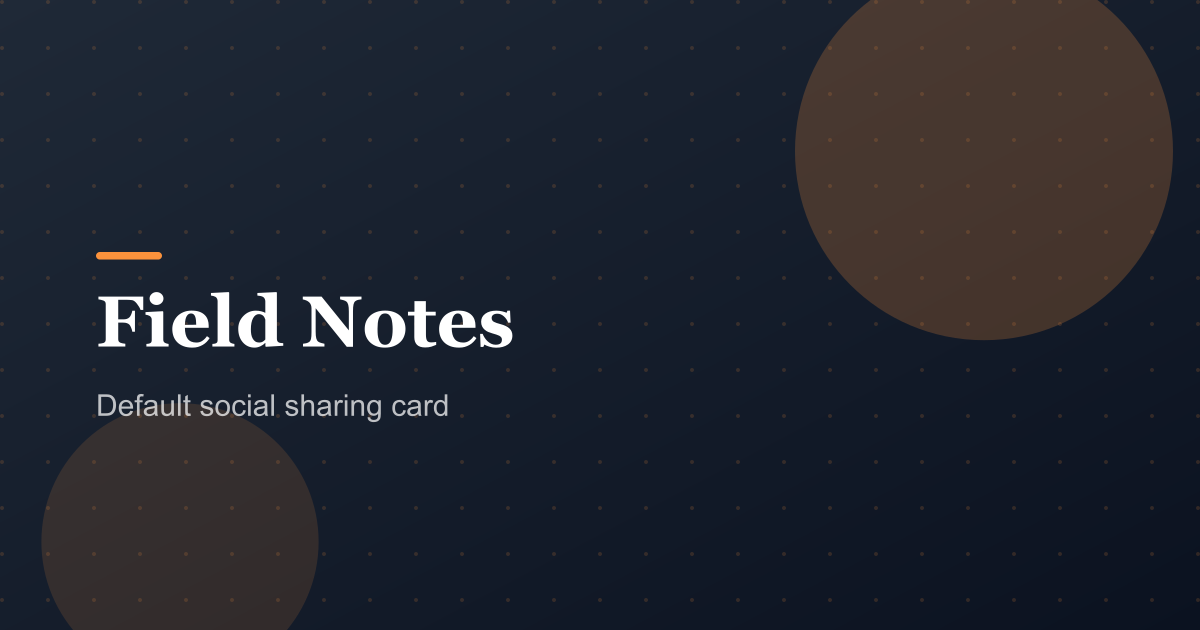
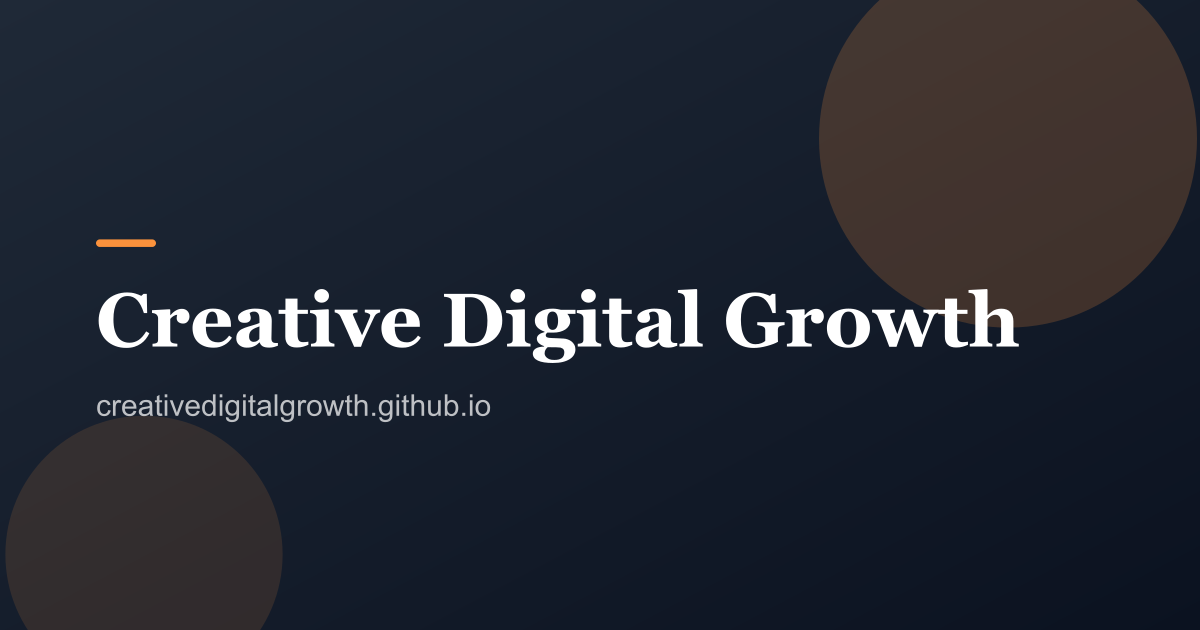
Rename the site to Creative Digital Growth; gate Search and Contact
- SITE_TITLE is now "Creative Digital Growth". It feeds the <title>, the header
  wordmark, the brand initial, og:site_name, the footer and the RSS channel, so
  nothing else needed editing.
- favicon redrawn with a "C" (an arc, so it needs no font)
- social-card.png regenerated with the new name

Search and Contact are hidden behind flags in src/consts.ts:

  export const FEATURES = { search: false, contact: false }

Both pages moved to rest-param routes whose getStaticPaths returns [] when the
flag is off, so the page is not generated at all and the URL 404s - rather than
being unlinked but still reachable and indexable. Every link to them is
conditional too: header nav, footer, the 404 page's "Search the archive" button
and the About page's contact sentence, which now reads without it.

Nothing is deleted. Flipping a flag to true restores the page and its links
exactly as they were.

Verified: build exit 0, 541 internal refs with 0 broken, no dangling link to
either hidden page, neither in the output or the sitemap (19 URLs), nav reduced
to Blog and About, astro check clean.

diff --git a/src/consts.ts b/src/consts.ts
@@ -1,7 +1,7 @@
 /**
  * Single place to edit the blog's identity. Nothing else hardcodes these values.
  */
-export const SITE_TITLE = 'Field Notes';
+export const SITE_TITLE = 'Creative Digital Growth';
 export const SITE_DESCRIPTION =
   'A small, fast, hand-built blog about the things worth writing down.';
 
@@ -13,6 +13,20 @@ export const AUTHOR_EMAIL = 'you@example.com';
 
 /** Default social image, relative to /public. Used when a page has no image of its own. */
 export const DEFAULT_OG_IMAGE = '/social-card.png';
+
+/**
+ * Optional pages. Set a flag to `true` and the page is built and its links appear in
+ * the header, footer and elsewhere; leave it `false` and the route is not generated at
+ * all, so the URL 404s rather than sitting unlinked but reachable.
+ *
+ * Nothing is deleted — flipping a flag back to `true` restores the page as it was.
+ */
+export const FEATURES = {
+  /** Full-text search at /search/. Needs no configuration; works as soon as it is on. */
+  search: false,
+  /** Contact page at /contact/. Set CONTACT_FORM_ENDPOINT below for a working form. */
+  contact: false,
+} as const;
 
 /** Posts per page for /blog/ and the category / tag archives. */
 export const POSTS_PER_PAGE = 6;
